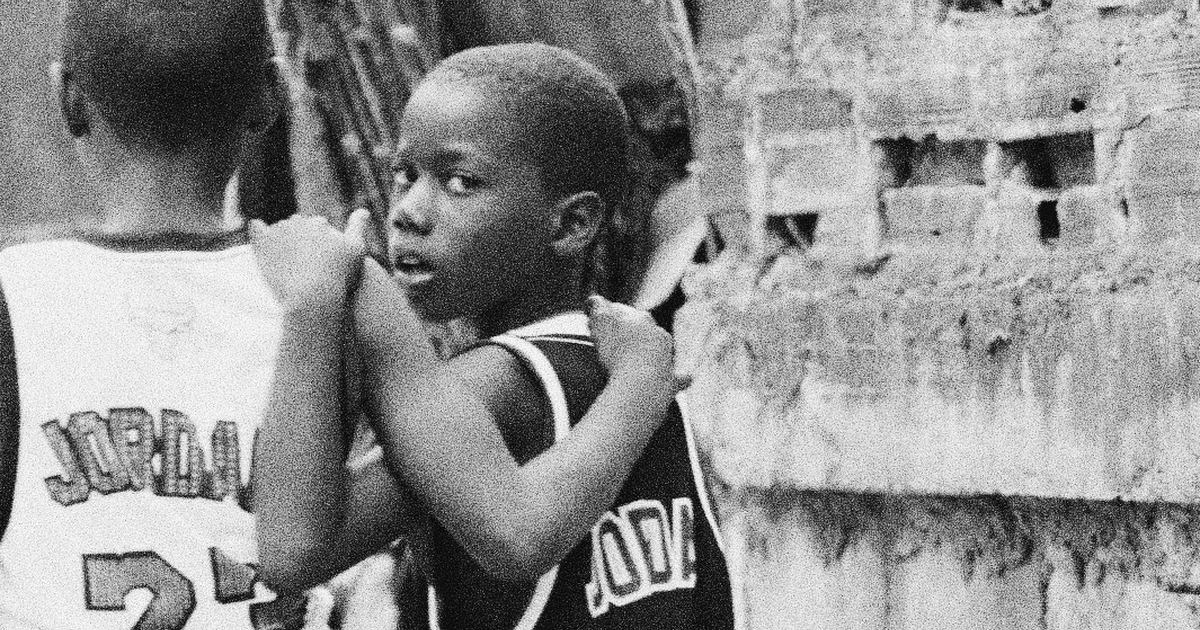
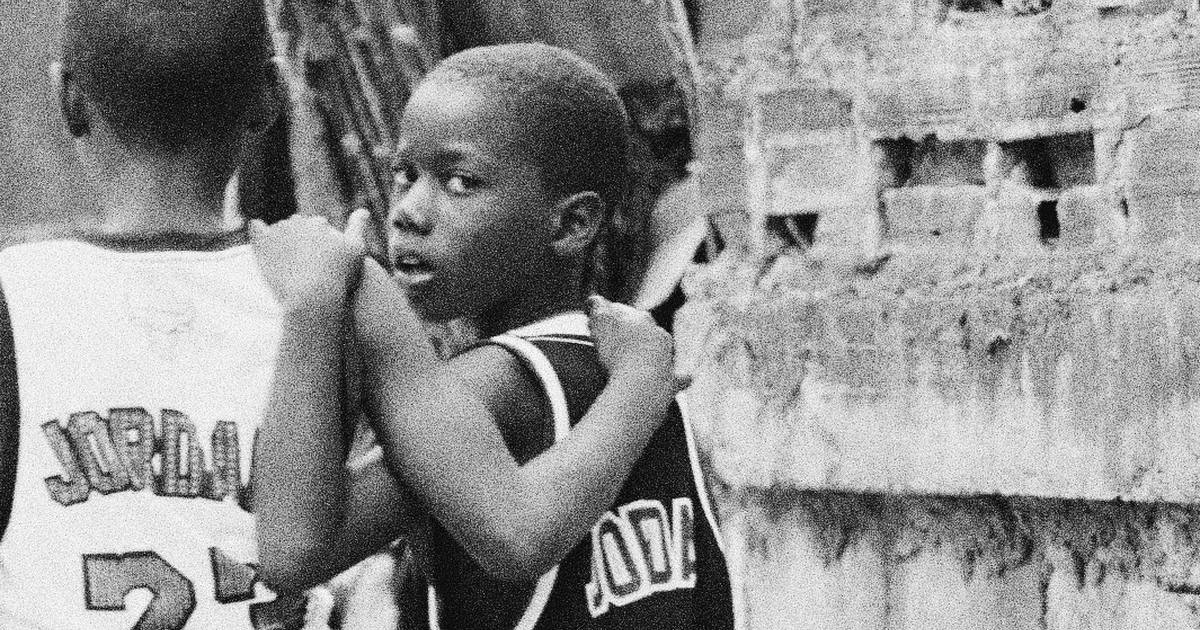
lol

diff --git a/caritesportfolio/public/index.html b/caritesportfolio/public/index.html
@@ -16,11 +16,16 @@
     <meta property="og:title" content="Santiago Núñez — Cinematography / DoP">
     <meta property="og:description" content="Un pedazo digital de mi mente.">
     <meta property="og:url" content="https://cariteportfolio.vercel.app/">
-    <meta property="og:image" content="https://cariteportfolio.vercel.app/og-image.jpg">
+    <!-- ?v=: subir el número al cambiar la imagen, para que WhatsApp la vuelva a pedir -->
+    <meta property="og:image" content="https://cariteportfolio.vercel.app/og-image.jpg?v=2">
+    <meta property="og:image:secure_url" content="https://cariteportfolio.vercel.app/og-image.jpg?v=2">
+    <meta property="og:image:type" content="image/jpeg">
+    <meta property="og:image:alt" content="Dos niños abrazados, en blanco y negro">
     <meta property="og:image:width" content="1200">
     <meta property="og:image:height" content="630">
     <meta property="og:locale" content="es_ES">
     <meta name="twitter:card" content="summary_large_image">
+    <meta name="twitter:image" content="https://cariteportfolio.vercel.app/og-image.jpg?v=2">
     <!-- Primer cuadro del welcome: se pide de inmediato -->
     <link rel="preload" href="<%= BASE_URL %>welcome-poster.jpg" as="image">
     <!-- Letras: Anton y Spectral (inicio y secciones) y manuscrita de Stills.
